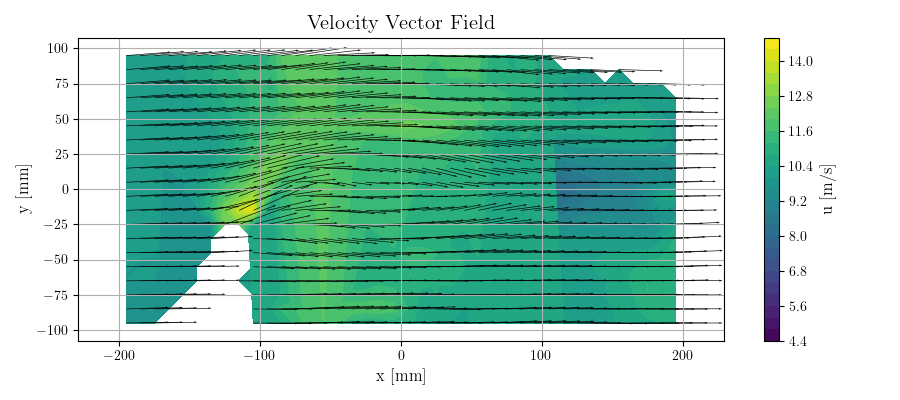
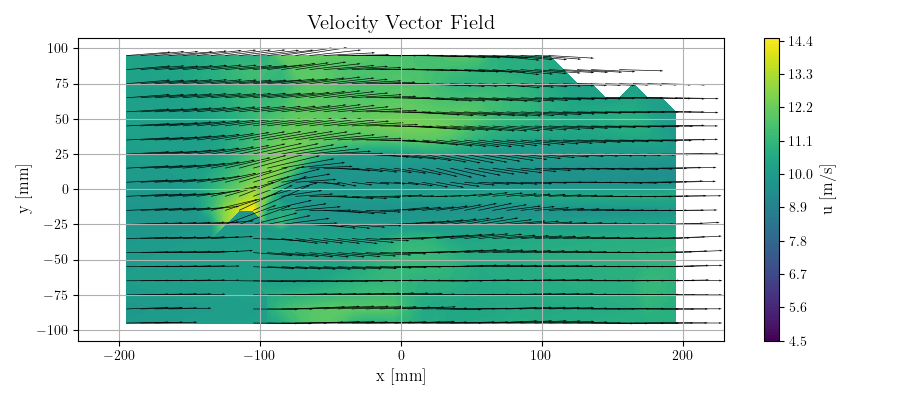
Fixed issue with input file

diff --git a/HWA FMT/pressure_probe_post_proc.py b/HWA FMT/pressure_probe_post_proc.py
@@ -13,7 +13,7 @@ plt.rc('legend',fontsize=12)
 plt.rcParams['axes.labelsize'] = 12
 plt.rcParams['axes.titlesize'] = 15
 
-data = pd.read_csv('Pressure Probe/Pressure_probe_measurements.csv', header=0, names = ['x', 'y', 'u', 'v'], sep=',', na_values=' nan')
+data = pd.read_csv('Pressure Probe/Pressure_probe_measurements.txt', header=0, names = ['x', 'y', 'u', 'v'], sep=',', na_values=' nan')
 
 x = data['x'][:]    # x-coordinate [mm]
 y = data['y'][:]    # y-coordinate [mm]
@@ -25,12 +25,12 @@ v_tot = np.sqrt(np.power(u_vel,2) + np.power(v_vel,2))
 X, Y = np.meshgrid(x, y)
 U_vel = griddata((x, y), u_vel, (X, Y), method='linear')
 V_vel = griddata((x, y), v_vel, (X, Y), method='linear')
-V_tot = griddata((x, y), v_tot, (X, Y), method='nearest')
+V_tot = griddata((x, y), v_tot, (X, Y), method='linear')
 
 step = 1
 plt.figure(figsize=(9,4))
 
-contour = plt.contourf(X, Y, V_tot, levels=25, cmap='viridis')
+contour = plt.contourf(X, Y, V_tot, levels=100, cmap='viridis')
 cbar = plt.colorbar(contour)
 cbar.set_label('u [m/s]')
 
